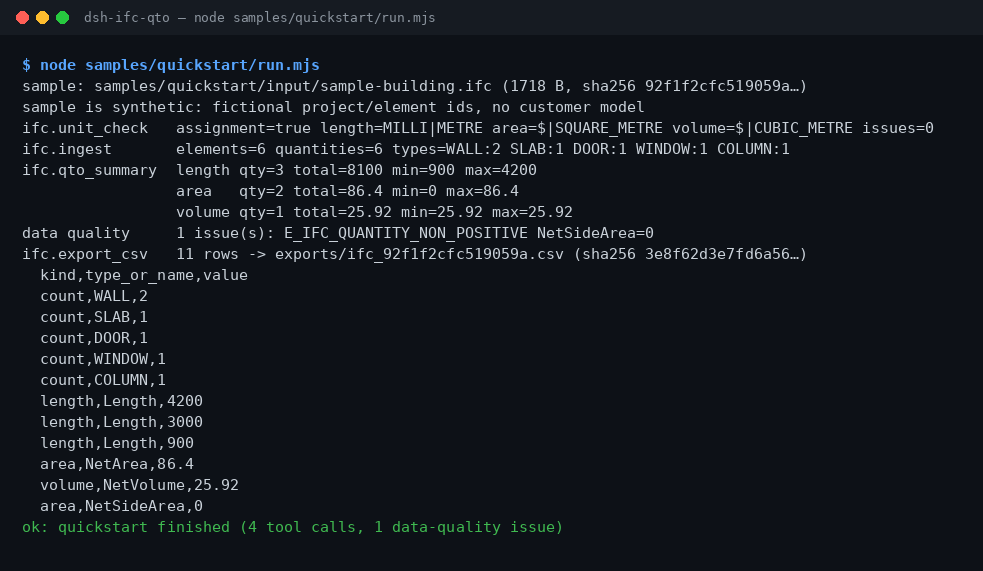
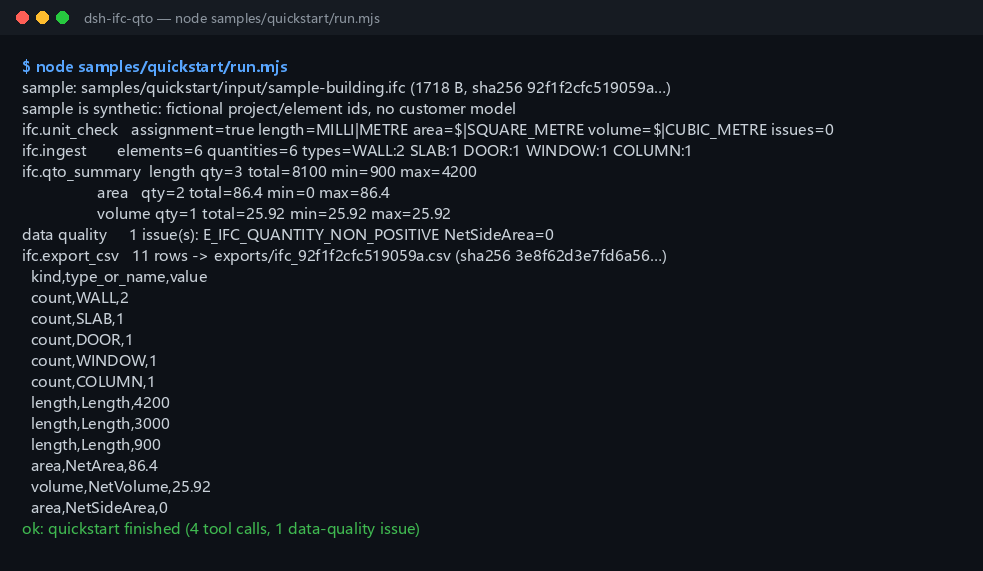
feat: capability hardening and release 0.1.0-alpha.15

Changed region(s): [[0.0, 0.0893, 0.9461, 0.9527], [0.0916, 0.0, 0.4273, 0.0595], [0.5188, 0.9229, 0.5799, 0.9527]]

diff --git a/CHANGELOG.md b/CHANGELOG.md
@@ -1,6 +1,6 @@
 # Changelog
 
-## [0.1.0-alpha.14] — 2026-11-01
+## [0.1.0-alpha.15] — 2026-11-01
 
 ### Security / Fixes
 
